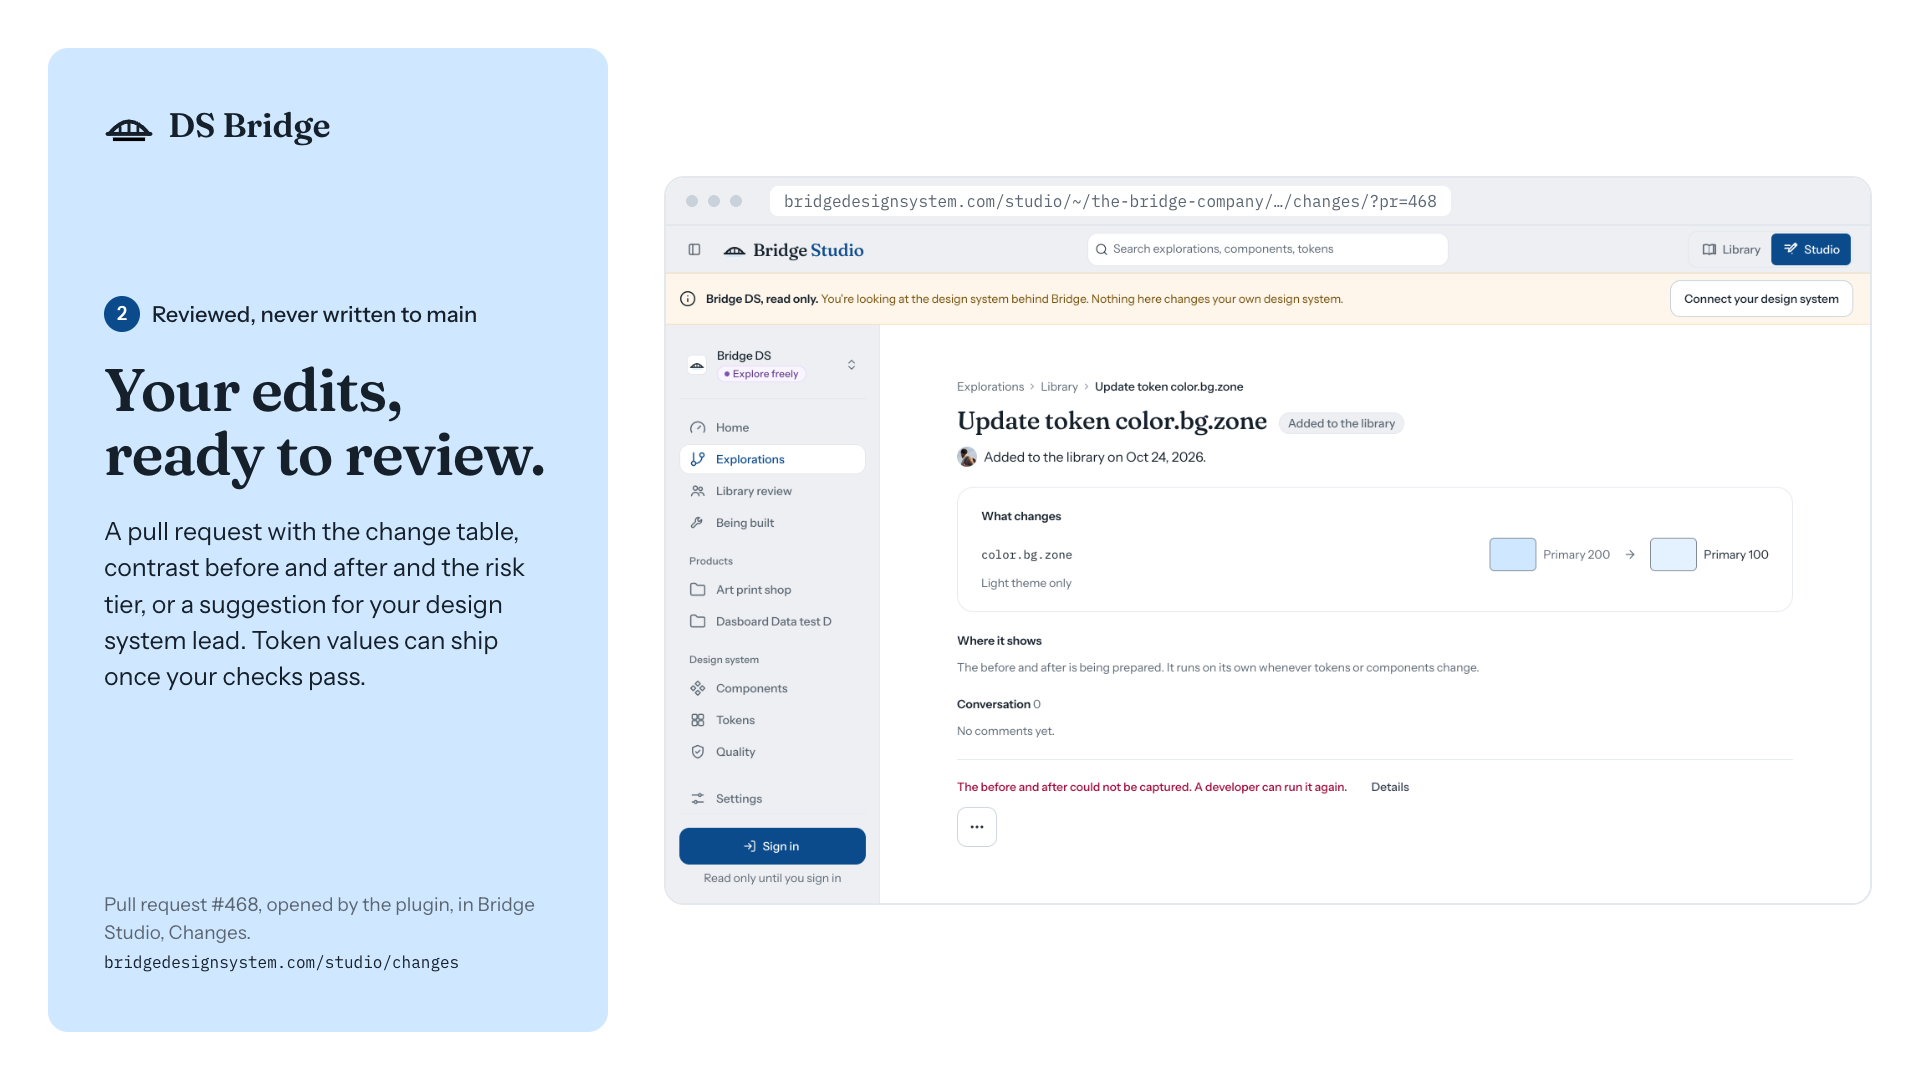
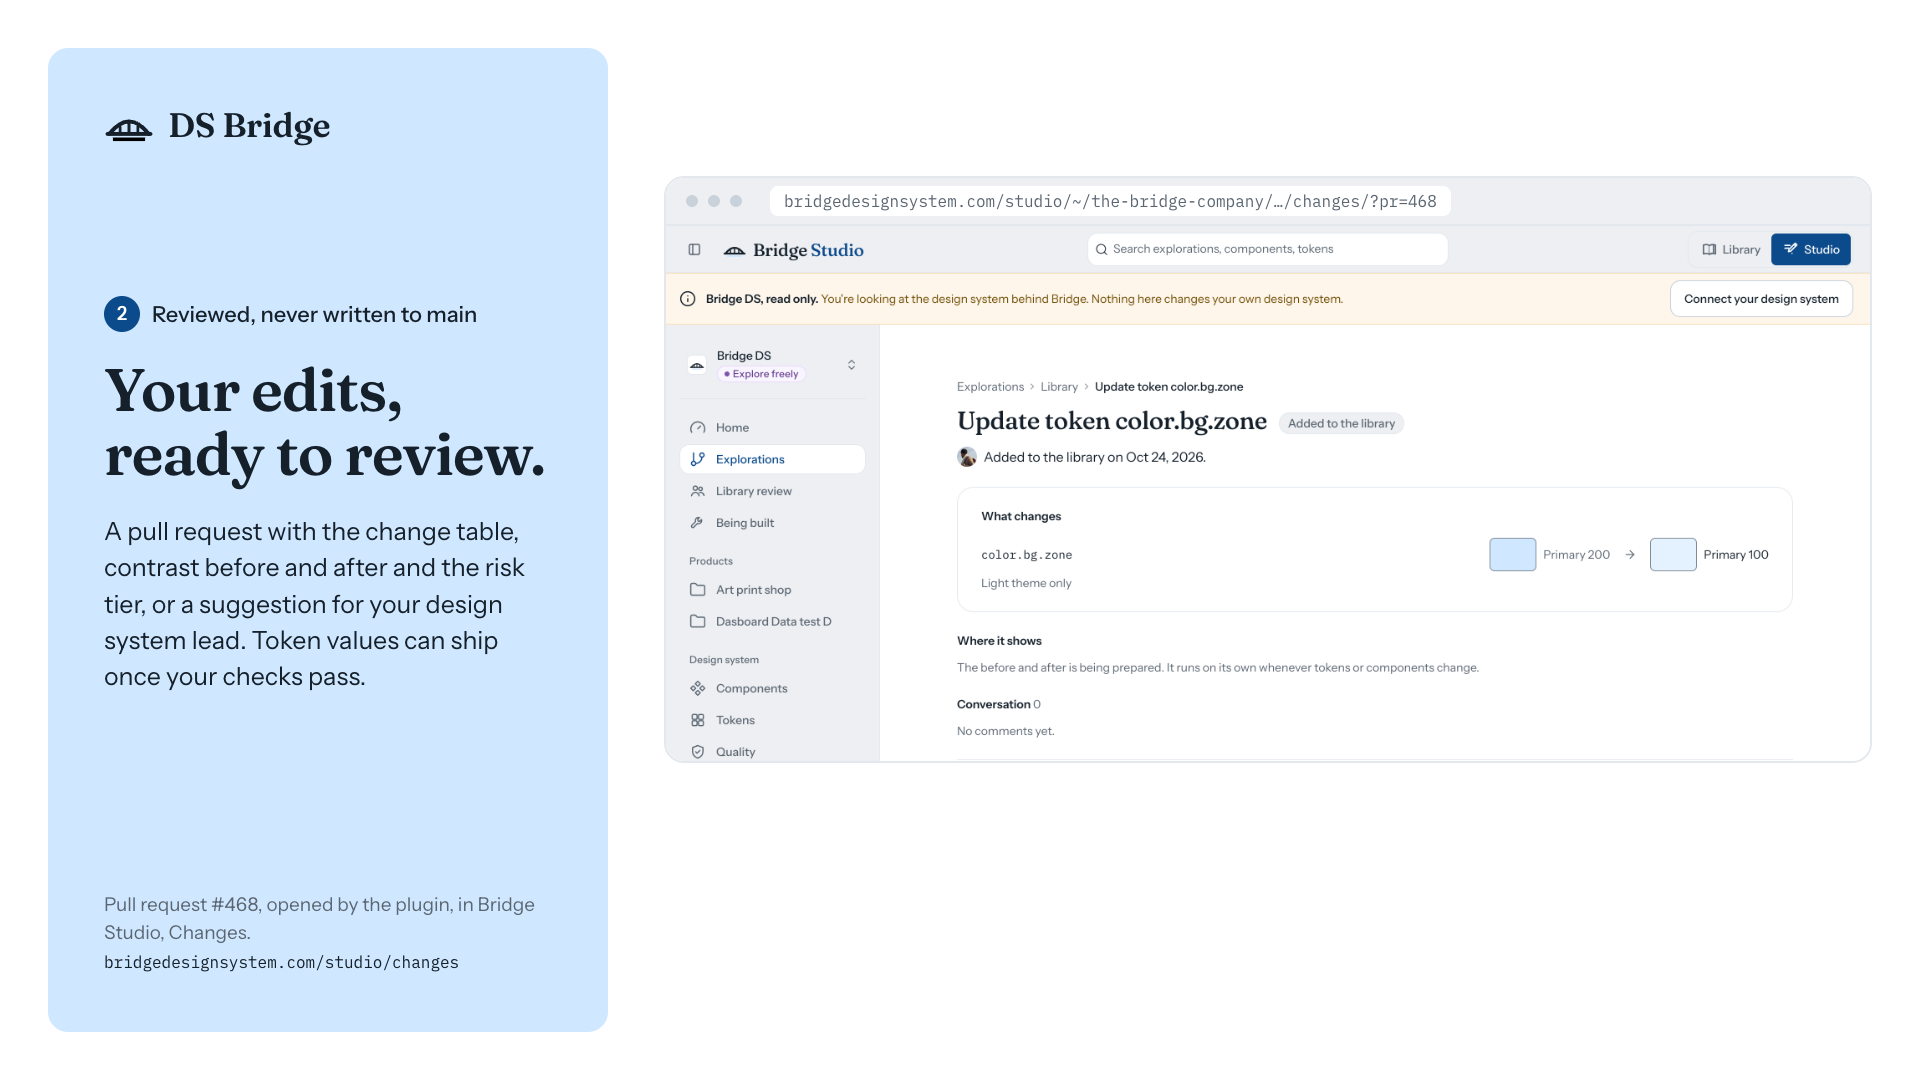
docs(figma-plugin): gallery 2 cropped at capture above the before-and-after status
The PR #468 page is captured down to its conversation (web-shots.mjs
clipHeight): no pixel edited, the error status of its before and after images is
left out of the listing image.

Claude-Session: https://claude.ai/code/session_01DyWiXiGdydo1jH3rNhdj6N

Changed region(s): [[0.3438, 0.7333, 0.4688, 0.825], [0.5, 0.7028, 0.75, 0.7333]]

diff --git a/apps/figma-plugin/community/listing.md b/apps/figma-plugin/community/listing.md
@@ -189,7 +189,8 @@ caption says. Galleries 2 and 3 are the live pages, unedited.
 Rendered again on 2026-11-16 for the MVP scope: gallery 1 shows the Pull of a first file with "0 of 81 components
 from the code are in this file" and the missing ones, and the Push with **Send for review**; galleries 2 and 3 are
 the Bridge DS team in Studio (`/studio/~/the-bridge-company/ai-design-system-demo/`), PR #468 and its tokens. The
-PR #468 page currently ends with "The before and after could not be captured": that is the live page, unedited.
+PR #468 page is captured down to its conversation (`clipHeight` in `web-shots.mjs`): the crop is made at capture,
+the page itself is not edited. Below it the live page shows the status of its before and after images, left out.
 
 ## How to publish (owner)
 
